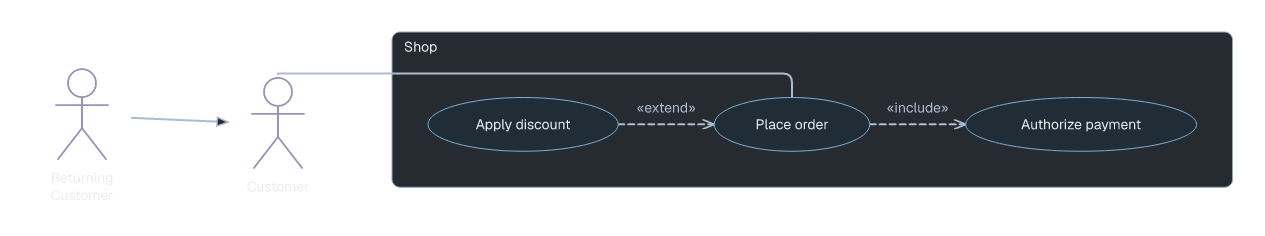
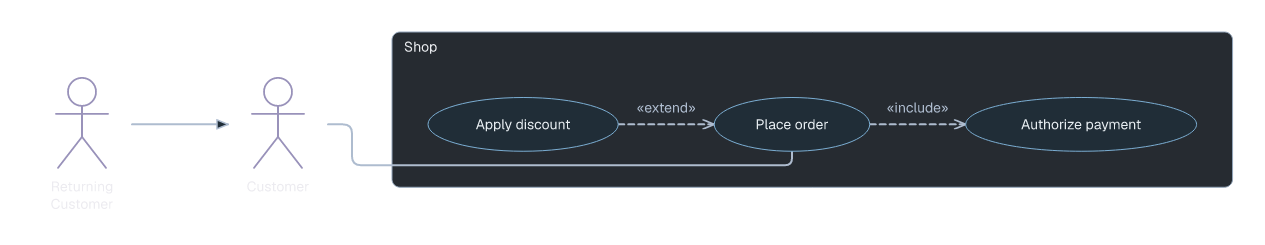
Align use-case actors and route lateral associations from the side

diff --git a/src/route/preferred.rs b/src/route/preferred.rs
@@ -129,8 +129,8 @@ pub(super) fn horizontal_connection(a: &BoxNode, b: &BoxNode) -> Option<Vec<Poin
     })
 }
 
-// The actor's hand is not its box center. Aim the use-case ellipse at that
-// actual hand, so a fallback is still one straight segment, not a stub.
+// A fallback straight connection uses the figure's invisible contour and the
+// use-case ellipse. The actor caption and its visible arms are not ports.
 pub(super) fn actor_usecase_straight(a: &BoxNode, b: &BoxNode) -> Option<Vec<Point>> {
     let (actor, usecase, reverse) = match (a.kind, b.kind) {
         (crate::syntax::NodeKind::UseCaseActor, crate::syntax::NodeKind::UseCase) => (a, b, false),
@@ -144,6 +144,101 @@ pub(super) fn actor_usecase_straight(a: &BoxNode, b: &BoxNode) -> Option<Vec<Poi
     } else {
         points
     })
+}
+
+// For a mostly lateral actor/use-case relation obstructed by another use case,
+// leave the figure from its side before routing around that obstacle. The
+// generic exterior candidates might otherwise pick the actor's head first.
+pub(super) fn actor_side_detours(a: &BoxNode, b: &BoxNode, boxes: &[BoxNode]) -> Vec<Vec<Point>> {
+    let (actor, usecase, actor_at_start) = match (a.kind, b.kind) {
+        (crate::syntax::NodeKind::UseCaseActor, crate::syntax::NodeKind::UseCase) => (a, b, true),
+        (crate::syntax::NodeKind::UseCase, crate::syntax::NodeKind::UseCaseActor) => (b, a, false),
+        _ => return Vec::new(),
+    };
+    let (ac, uc) = (center(actor), center(usecase));
+    if (uc.x - ac.x).abs() < (uc.y - ac.y).abs() {
+        return Vec::new(); // A genuinely vertical connection may use the head.
+    }
+    let rightward = uc.x > ac.x;
+    let mut options: Vec<_> = super::detours::corridors(a, b, boxes, false)
+        .into_iter()
+        .filter(|points| {
+            if points.len() < 4 {
+                return false;
+            }
+            let (at, next) = if actor_at_start {
+                (points[0], points[1])
+            } else {
+                (*points.last().unwrap(), points[points.len() - 2])
+            };
+            (at.y - ac.y).abs() < 1e-6
+                && (next.y - at.y).abs() < 1e-6
+                && if rightward {
+                    next.x > at.x
+                } else {
+                    next.x < at.x
+                }
+        })
+        .collect();
+    // Below the use-case row is preferable here: it keeps the title area and
+    // the actor's head clear. Route feasibility still decides the outcome.
+    let bottom = usecase.y + usecase.height;
+    options.sort_by(|a, b| {
+        let score = |points: &Vec<Point>| {
+            let below = points.iter().any(|p| p.y > bottom + 8.0);
+            let length: f64 = points
+                .windows(2)
+                .map(|w| (w[1].x - w[0].x).hypot(w[1].y - w[0].y))
+                .sum();
+            (!below, length)
+        };
+        let (a_below, a_length) = score(a);
+        let (b_below, b_length) = score(b);
+        a_below.cmp(&b_below).then(a_length.total_cmp(&b_length))
+    });
+    // Prefer an elbow outside the subject frame, then a crossing with room
+    // below the use-case row. Generic obstacle tracks can hug its left edge.
+    if let Some(frame) = boxes.iter().find(|node| {
+        node.kind == crate::syntax::NodeKind::UseCaseSystem
+            && usecase.x >= node.x
+            && usecase.x + usecase.width <= node.x + node.width
+    }) {
+        let y = bottom + 14.0;
+        let side = forced_port(
+            actor,
+            if rightward {
+                PortSide::Right
+            } else {
+                PortSide::Left
+            },
+        );
+        let x = if rightward {
+            (side.x + 24.0).min(frame.x - 12.0)
+        } else {
+            (side.x - 24.0).max(frame.x + frame.width + 12.0)
+        };
+        if y < frame.y + frame.height - 14.0 && (x - side.x) * (uc.x - ac.x) > 0.0 {
+            let bottom_port = port(
+                usecase,
+                Point {
+                    x: uc.x,
+                    y: y + 100.0,
+                },
+            );
+            let mut path = vec![
+                side,
+                Point { x, y: side.y },
+                Point { x, y },
+                Point { x: uc.x, y },
+                bottom_port,
+            ];
+            if !actor_at_start {
+                path.reverse();
+            }
+            options.insert(0, path);
+        }
+    }
+    options
 }
 
 pub(super) fn named_port_candidates(

diff --git a/tests/usecase.rs b/tests/usecase.rs
@@ -111,6 +111,44 @@ fn actor_association_falls_back_to_a_single_diagonal_when_horizontal_is_impossib
 }
 
 #[test]
+fn order_actors_align_and_lateral_association_avoids_the_actor_head() {
+    let diagram = parse(ORDER).unwrap();
+    let sheet = load(&diagram, Path::new("examples/usecase-order.laml")).unwrap();
+    let boxes = place(&diagram, &sheet).unwrap();
+    let actor = boxes.iter().find(|n| n.id == "Customer").unwrap();
+    let returning = boxes.iter().find(|n| n.id == "ReturningCustomer").unwrap();
+    let shop = boxes.iter().find(|n| n.id == "Shop").unwrap();
+    let order = boxes.iter().find(|n| n.id == "Shop.Order").unwrap();
+    assert!(
+        (actor.y - returning.y).abs() < 0.01,
+        "align the figures, not their captions"
+    );
+    let routes = route(&diagram, &boxes, &sheet).unwrap();
+    let generalization = &routes[diagram
+        .relations
+        .iter()
+        .position(|r| r.from == "ReturningCustomer")
+        .unwrap()];
+    assert_eq!(generalization.points.len(), 2);
+    assert!((generalization.points[0].y - generalization.points[1].y).abs() < 0.01);
+    let association = &routes[diagram
+        .relations
+        .iter()
+        .position(|r| r.from == "Customer")
+        .unwrap()];
+    assert_eq!(association.points.len(), 5);
+    let p = &association.points;
+    assert!((p[0].y - actor.y - 47.5).abs() < 0.01);
+    assert!((p[0].y - p[1].y).abs() < 0.01);
+    assert!(
+        p[1].x < shop.x - 8.0,
+        "the first elbow must clear the subject frame"
+    );
+    assert!(p[2].y > order.y + order.height + 8.0);
+    assert!((p[4].y - order.y - order.height).abs() < 0.01);
+}
+
+#[test]
 fn usecase_subject_corner_radius_follows_theme_and_can_be_overridden() {
     let diagram = parse(QUICKSTART).unwrap();
     let mut sheet = load(&diagram, Path::new("examples/usecase-quickstart.laml")).unwrap();

diff --git a/src/geometry/containers.rs b/src/geometry/containers.rs
@@ -125,17 +125,21 @@ fn relation_alignments(
                 .find(|node| node.has_endpoint(&relation.from))?;
             let to = boxes.iter().find(|node| node.has_endpoint(&relation.to))?;
             // A named port or member has its own measured attachment position.
-            let actor_usecase = diagram.settings.diagram_type
+            let usecase_actors = diagram.settings.diagram_type
                 == crate::syntax::DiagramType::UseCase
-                && parent.is_none()
+                && parent.is_none();
+            let actor_usecase = usecase_actors
                 && matches!(
                     (from.kind, to.kind),
                     (NodeKind::UseCaseActor, NodeKind::UseCase)
                         | (NodeKind::UseCase, NodeKind::UseCaseActor)
                 );
+            let actor_generalization = usecase_actors
+                && from.kind == NodeKind::UseCaseActor
+                && to.kind == NodeKind::UseCaseActor;
             if relation.from != from.id
                 || relation.to != to.id
-                || (!actor_usecase
+                || (!(actor_usecase || actor_generalization)
                     && (!matches!(
                         from.kind,
                         NodeKind::Generic | NodeKind::Package | NodeKind::Object
@@ -173,7 +177,7 @@ fn relation_alignments(
             let owner_b = local.iter().find(|node| node.id == b)?;
             let center = |node: &BoxNode| node.y + node.height / 2.0;
             let anchor = |node: &BoxNode| {
-                if actor_usecase && node.kind == NodeKind::UseCaseActor {
+                if (actor_usecase || actor_generalization) && node.kind == NodeKind::UseCaseActor {
                     node.y + super::usecase::FIGURE_CENTER_Y
                 } else {
                     center(node)

diff --git a/src/route/mod.rs b/src/route/mod.rs
@@ -24,8 +24,8 @@ mod self_loops;
 mod side_rules;
 use geometry::{center, member_port, port};
 use preferred::{
-    actor_usecase_straight, forced_port, horizontal_connection, named_port_candidates,
-    normal_at_port,
+    actor_side_detours, actor_usecase_straight, forced_port, horizontal_connection,
+    named_port_candidates, normal_at_port,
 };
 pub use qualifiers::QualifierBox;
 pub use router::route;
@@ -162,6 +162,7 @@ fn candidates(
         && let Some(points) = actor_usecase_straight(a, b)
     {
         results.push(points);
+        results.extend(actor_side_detours(a, b, boxes));
     }
     if diagram.settings.diagram_type == crate::syntax::DiagramType::Class
         && source_side.is_none()

diff --git a/docs/usecase-diagrams.md b/docs/usecase-diagrams.md
@@ -21,7 +21,7 @@ semantics {
 }
 ```
 
-`system Name { ... }` is the labeled system boundary and contains named `usecase` ellipses. Modern themes give the subject frame softly rounded corners; plain themes retain square corners. The actor figure has a fixed silhouette independent of its caption width. Relations attach to an invisible ellipse around the figure, not to its arm or caption; automatic placement prefers aligning the figure's midpoint with the connected use case. Actors are external stick figures and cannot be nested inside that boundary. Child IDs are scoped (`Shop.Order`); an explicit `@id` remains diagram-wide. This **source scope expresses visible placement**, not UML ownership: the subject rectangle does not itself imply ownership of the depicted use cases. A diagram has one system boundary with at least one use case. Labels can be set independently from IDs using `(label="Visible text")`. Notes attach through unadorned dotted lines.
+`system Name { ... }` is the labeled system boundary and contains named `usecase` ellipses. Modern themes give the subject frame softly rounded corners; plain themes retain square corners. The actor figure has a fixed silhouette independent of its caption width. Relations attach to an invisible ellipse around the figure, not to its arm or caption. Automatic placement aligns the visible figures of generalized actors and prefers matching an actor's midpoint to its connected use case. If another use case blocks a lateral association, routing can leave the actor's side and bend around the obstruction instead of leaving near its head. Actors are external stick figures and cannot be nested inside that boundary. Child IDs are scoped (`Shop.Order`); an explicit `@id` remains diagram-wide. This **source scope expresses visible placement**, not UML ownership: the subject rectangle does not itself imply ownership of the depicted use cases. A diagram has one system boundary with at least one use case. Labels can be set independently from IDs using `(label="Visible text")`. Notes attach through unadorned dotted lines.
 
 Relationships are checked by endpoint kind, direction and UML marker:
 

diff --git a/docs/diagrams/usecase.md b/docs/diagrams/usecase.md
@@ -39,8 +39,8 @@ semantics {
 ```
 
 <picture>
-  <source media="(prefers-color-scheme: dark)" srcset="../images/usecase-order-modern-dark.png?v=actor-arms-37-20261104">
-  <img src="../images/usecase-order-modern.png?v=actor-arms-37-20261104" alt="Included payment, optional discount and actor generalization">
+  <source media="(prefers-color-scheme: dark)" srcset="../images/usecase-order-modern-dark.png?v=actor-side-route-20261104">
+  <img src="../images/usecase-order-modern.png?v=actor-side-route-20261104" alt="Included payment, optional discount and actor generalization">
 </picture>
 
 [Complete source](../../examples/usecase-order.laml).
